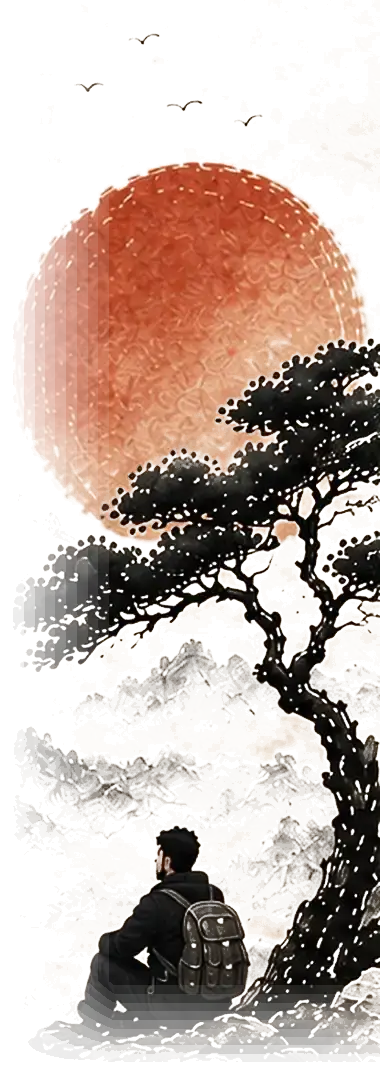
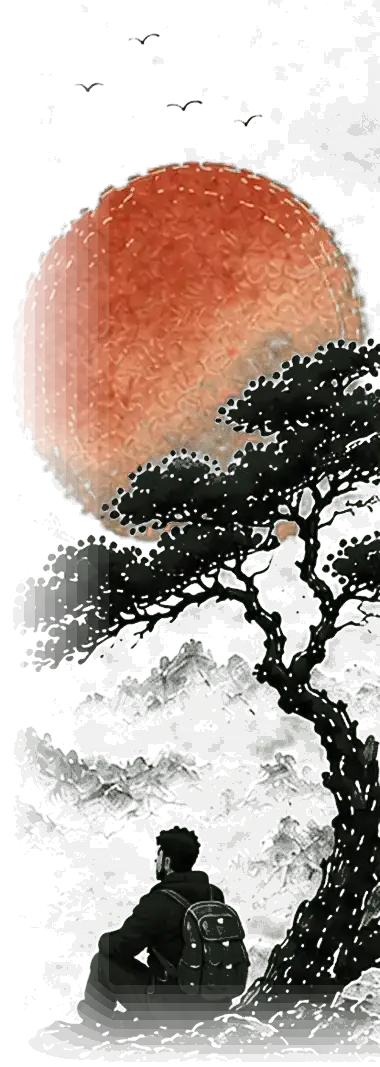
Stop the night artwork bleaching the sheet it sits on
Reported with a photograph of the top-right corner: white patches in the
sky. They were real and they were the picture's own, not the paper's --
proved by rendering the page with the artwork hidden:

    sheet alone, that corner: brightest  52, spread  4.5  (smooth)
    with the artwork:         brightest 184, spread 44.7

The mist and the far mountains are painted light -- up to luminance 184
-- and the sheet is 25. Wherever they are semi-transparent they bleach
it, which on a near-black page reads as smudges rather than as mist.

The night cut now compresses everything brighter than the sheet toward
it, at 0.15, so the mist can still lift the page a little and can no
longer glare: the brightest ink is 92 where it was 255. The sun is
untouched -- it is the one thing that should be brighter than the night.

Two other things were wrong at the same time and are fixed by the same
pass. The ink was brown (hue 30) on a green sheet (hue 103), so every
soft edge mixed the two and read as paint; it is now tinted to the
sheet's own hue. And the seal carried a halo of pale paper for the same
reason, corrected the same way, with its vermilion left alone.

check_connect_card.py needed a fix of its own: it forced a dark
colour-scheme to inspect the night sheet, and the page now follows the
SUN, so at seven in the morning it correctly ignored the request and the
check read the daylight cut. It pins the clock to 22:00 instead.

diff --git a/how-this-was-made/index.html b/how-this-was-made/index.html
@@ -1598,8 +1598,8 @@ a:active,button:active{opacity:.72}
 <div class="cf-num"><b>146</b><span>python scripts</span></div>
 <div class="cf-num"><b>72</b><span>checks before a push</span></div>
 <div class="cf-num"><b>15</b><span>github workflows</span></div>
-<div class="cf-num"><b>66,545</b><span>lines behind it</span></div>
-<div class="cf-num"><b>2,113</b><span>commits</span></div>
+<div class="cf-num"><b>66,551</b><span>lines behind it</span></div>
+<div class="cf-num"><b>2,121</b><span>commits</span></div>
 </div>
 <h2 id="journey">What happens when I publish</h2>
 <p class="cf-note">A post is a file. Everything a reader sees is built from it, which means the pages can always be thrown away and made again &mdash; and are, on every publish. Here is the whole trip a post takes, from the file to your screen.</p>

diff --git a/scripts/check_connect_card.py b/scripts/check_connect_card.py
@@ -194,10 +194,15 @@ def main():
             # stops carrying, and -- the one that actually happened -- the
             # artwork's pale wash lighting up a rectangle, because low
             # alpha over white pixels lightens whatever is behind it.
+            # The page follows the SUN now, not the OS preference, so
+            # asking for a dark colour-scheme is no longer enough to see
+            # the night sheet -- at 07:00 in Chicago it correctly ignores
+            # you. The clock is pinned to 22:00 local instead.
             ctx = b.new_context(viewport={"width": 412, "height": 915},
                                 device_scale_factor=2, is_mobile=True,
-                                has_touch=True, color_scheme="dark")
+                                has_touch=True, timezone_id="America/Chicago")
             pg = ctx.new_page()
+            pg.clock.install(time="2026-09-25T03:00:00Z")
             pg.goto(URL, wait_until="domcontentloaded")
             pg.wait_for_timeout(1800)
             night = pg.evaluate("""()=>{
@@ -262,8 +267,9 @@ def main():
             # choice has to survive a reload.
             ctx = b.new_context(viewport={"width": 412, "height": 915},
                                 device_scale_factor=2, is_mobile=True,
-                                has_touch=True, color_scheme="light")
+                                has_touch=True, timezone_id="America/Chicago")
             pg = ctx.new_page()
+            pg.clock.install(time="2026-09-24T17:00:00Z")   # midday, so light
             pg.goto(URL, wait_until="domcontentloaded")
             pg.wait_for_timeout(1500)
             lamp = pg.evaluate("""()=>{
